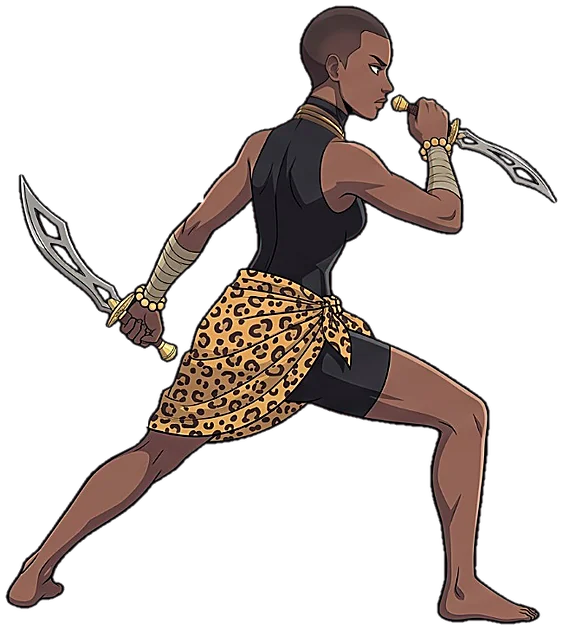
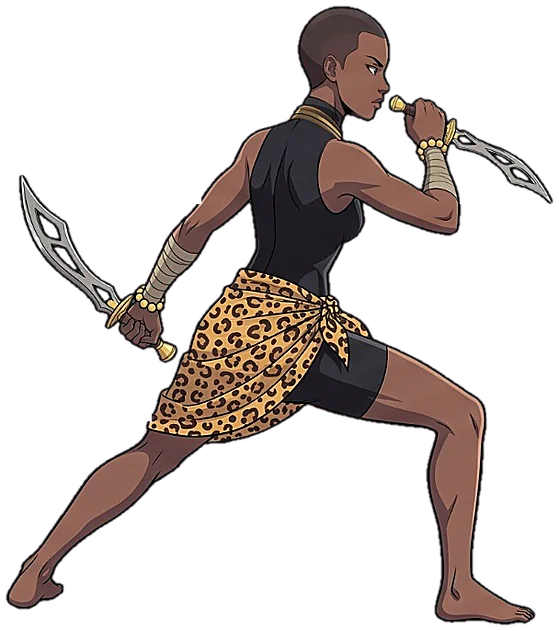
Dufie: ultimate sheets regenerated in strict profile at consistent scale; versioned asset URLs so phones stop mixing old cached art with new
Claude-Session: https://claude.ai/code/session_01KCvu1msLSb5oPSxPwoexAA

diff --git a/squads/game.js b/squads/game.js
@@ -1,9 +1,9 @@
 // Gyeaman Squads: Akan squad battler, chapter 1.
 // Battles are turn based on a speed turn order (Dislyte style): every hero picks Basic, Skill (cooldown) or Ultimate (energy)
 // and a target; enemies show their next move. Big moves get impact frames, small ones stay quiet.
-import { KF } from './kf.js';
-import { HEROES, MONS, STAGES, REGIONS, DIFF, RARITY, STARTERS, SKILL_MAX, skillCost, xpNeed, STAR_SHARDS, LOCKED_CHAPTERS, PULL_COST, PULL10_COST, PITY, PULL_RATES, CLASSES, GROWTH, SPELLS } from './data.js';
-import { drawAdinkra, adinkraPath, adinkraSvg, ADINKRA } from './adinkra.js';
+import { KF } from './kf.js?v=20261021b';
+import { HEROES, MONS, STAGES, REGIONS, DIFF, RARITY, STARTERS, SKILL_MAX, skillCost, xpNeed, STAR_SHARDS, LOCKED_CHAPTERS, PULL_COST, PULL10_COST, PITY, PULL_RATES, CLASSES, GROWTH, SPELLS } from './data.js?v=20261021b';
+import { drawAdinkra, adinkraPath, adinkraSvg, ADINKRA } from './adinkra.js?v=20261021b';
 
 const ROOT = /\/squads\/?$|\/squads\/index\.html$/.test(location.pathname) ? '../assets/' : 'assets/';
 const A = ROOT + 'sq/';
@@ -62,6 +62,7 @@ const SFX = {
 
 // ---------------- images ----------------
 const IM = {};
+const AV = '?v=20261021b'; // bump when art files are replaced under the same name (defeats stale browser/CDN caches)
 function img(src) {
   if (!IM[src]) { const e = { el: new Image(), ok: false, sc: {}, sil: {} }; e.el.decoding = 'async'; e.el.onload = () => { e.ok = true; }; e.el.src = src; IM[src] = e; }
   return IM[src];
@@ -73,7 +74,7 @@ const CHOREO = {}; // per-hero hand-animated moves (keyframe timelines)
 const ANIM = {}; // Veo clip sheets (none active: keyframe poses replaced them)
 for (const id in ANIM) for (const c of Object.values(ANIM[id])) c.sheets.forEach((u) => img(u));
 // ---------- keyframe choreography (Firefly pose sheets + code movement, smears, speed lines, afterimages) ----------
-const kfImg = (id, p) => img(A + 'kf/' + KF[id].p[p][0]);
+const kfImg = (id, p) => img(A + 'kf/' + KF[id].p[p][0] + AV);
 for (const id in KF) for (const p in KF[id].p) kfImg(id, p);
 // draw keyframe p for hero id with its floor point at (0,0), body scaled so the idle pose is bodyH tall
 function drawKF(g, id, p, bodyH, alpha = 1) {
@@ -148,8 +149,8 @@ function drawClip(g, c, fi, bodyH) {
   g.drawImage(im.el, (j % c.cols) * c.fw, Math.floor(j / c.cols) * c.fh, c.fw, c.fh, -c.ax * k, -c.fy * k, c.fw * k, c.fh * k);
   return true;
 }
-const poseSrc = (id, k) => `${A}${id}_${k}.webp`;
-const faceSrc = (id) => (HEROES[id] ? `${A}face_${id}.webp` : poseSrc(id, 0));
+const poseSrc = (id, k) => `${A}${id}_${k}.webp${AV}`;
+const faceSrc = (id) => (HEROES[id] ? `${A}face_${id}.webp${AV}` : poseSrc(id, 0));
 function scaled(e, th) {
   if (!e.ok) return null; th = Math.max(16, Math.round(th / 8) * 8);
   if (th >= e.el.naturalHeight * 0.8) return e.el;
@@ -747,7 +748,7 @@ async function ultIntro(u, sym, color) {
 // fullscreen ultimate cutscene: dedicated art (or a Veo clip once generated), push-in, speed lines, X-slash, title
 const CUTS = {}; // optional per-hero splash art; keyframe heroes use their signature pose
 function cutscene(u, sym, color) {
-  const C = CUTS[u.id] || (KF[u.id] && KF[u.id].p.ultA_1 ? { img: A + 'kf/' + KF[u.id].p.ultA_1[0], pose: 1, short: 1 } : { img: poseSrc(u.id, 2), pose: 1 });
+  const C = CUTS[u.id] || (KF[u.id] && KF[u.id].p.ultA_1 ? { img: A + 'kf/' + KF[u.id].p.ultA_1[0] + AV, pose: 1, short: 1 } : { img: poseSrc(u.id, 2), pose: 1 });
   const media = C.video ? `<video poster="${C.img}" muted playsinline autoplay preload="auto"><source src="${C.video.replace('.mp4', '.webm')}" type="video/webm"><source src="${C.video}" type="video/mp4"></video>` : `<img src="${C.img}" alt="" class="${C.pose ? 'pose' : ''} ${C.pose && u.flip[2] ? 'flip' : ''}">`;
   const el = h(`<div class="ultcs" style="--rc:${color}"><div class="cs-bg"></div><div class="cs-art">${media}</div><div class="cs-lines"></div>
     <div class="cs-sym">${adinkraSvg(sym)}</div><i class="cs-x a"></i><i class="cs-x b"></i><div class="cs-flash"></div>
@@ -773,7 +774,7 @@ const ICONS = { dufie: ['basic', 'dufie1', 'dufie2', 'dufKick', 'dufStars', 'ult
 const KIND_GLYPH = { melee: 'warrior', ranged: 'hunter', buff: 'growth', shield: 'guardian', heal: 'sage' };
 function spellIcon(id, i, eq, sidIn) {
   const H = HEROES[id], key = sidIn || (i === 0 ? 'basic' : i === 3 ? 'ult' : (eq || SAVE.heroes[id]?.eq || H.pool)[i - 1]);
-  if ((ICONS[id] || []).includes(key)) return `<span class="sic"><img src="${A}icons/${id}_${key}.webp" alt=""></span>`;
+  if ((ICONS[id] || []).includes(key)) return `<span class="sic"><img src="${A}icons/${id}_${key}.webp${AV}" alt=""></span>`;
   const S = SPELLS[key], g = key === 'basic' ? H.cls : key === 'ult' ? 'stars' : S && S.legacy ? 'skills' : KIND_GLYPH[S && S.kind] || 'skills';
   return `<span class="sic glyph" style="--rc:${RARITY[H.rarity].color}">${icon(g)}</span>`;
 }

diff --git a/squads/kf.js b/squads/kf.js
@@ -1,4 +1,4 @@
 // generated by split4.py: keyframe poses cut from Firefly pose sheets. [file, w, h, anchor x, floor y] in px
 export const KF = {
-  dufie: { ref: 625, p: {"basic_0":["dufie_basic_0.webp",544,631,271,625],"basic_1":["dufie_basic_1.webp",594,572,296,553],"basic_2":["dufie_basic_2.webp",423,690,213,653],"basic_3":["dufie_basic_3.webp",490,391,245,363],"idle_0":["dufie_idle_0.webp",556,630,277,625],"idle_1":["dufie_idle_1.webp",461,660,230,649],"idle_2":["dufie_idle_2.webp",355,496,176,481],"idle_3":["dufie_idle_3.webp",447,488,223,467],"step_0":["dufie_step_0.webp",395,710,196,705],"step_1":["dufie_step_1.webp",545,501,272,615],"step_2":["dufie_step_2.webp",630,540,314,540],"step_3":["dufie_step_3.webp",424,693,213,703],"kick_0":["dufie_kick_0.webp",499,632,248,626],"kick_1":["dufie_kick_1.webp",579,426,290,602],"kick_2":["dufie_kick_2.webp",372,740,186,732],"kick_3":["dufie_kick_3.webp",438,413,218,377],"throw_0":["dufie_throw_0.webp",552,630,275,625],"throw_1":["dufie_throw_1.webp",341,648,170,643],"throw_2":["dufie_throw_2.webp",543,642,270,637],"throw_3":["dufie_throw_3.webp",508,584,253,568],"vanish_0":["dufie_vanish_0.webp",529,631,264,625],"vanish_1":["dufie_vanish_1.webp",467,707,233,677],"vanish_2":["dufie_vanish_2.webp",316,551,157,632],"vanish_3":["dufie_vanish_3.webp",503,618,249,610],"ultA_0":["dufie_ultA_0.webp",563,630,281,625],"ultA_1":["dufie_ultA_1.webp",369,696,184,733],"ultA_2":["dufie_ultA_2.webp",536,534,268,667],"ultA_3":["dufie_ultA_3.webp",490,614,245,609],"ultB_0":["dufie_ultB_0.webp",519,706,259,723],"ultB_1":["dufie_ultB_1.webp",624,540,310,535],"ultB_2":["dufie_ultB_2.webp",402,573,201,692],"ultB_3":["dufie_ultB_3.webp",565,630,281,625],"recover_0":["dufie_recover_0.webp",395,729,196,716],"recover_1":["dufie_recover_1.webp",463,680,231,716],"recover_2":["dufie_recover_2.webp",399,503,199,684],"recover_3":["dufie_recover_3.webp",552,631,275,625]} },
+  dufie: { ref: 625, p: {"basic_0":["dufie_basic_0.webp",544,631,271,625],"basic_1":["dufie_basic_1.webp",594,572,296,553],"basic_2":["dufie_basic_2.webp",423,690,213,653],"basic_3":["dufie_basic_3.webp",490,391,245,363],"idle_0":["dufie_idle_0.webp",556,630,277,625],"idle_1":["dufie_idle_1.webp",461,660,230,649],"idle_2":["dufie_idle_2.webp",355,496,176,481],"idle_3":["dufie_idle_3.webp",447,488,223,467],"step_0":["dufie_step_0.webp",395,710,196,705],"step_1":["dufie_step_1.webp",545,501,272,615],"step_2":["dufie_step_2.webp",630,540,314,540],"step_3":["dufie_step_3.webp",424,693,213,703],"kick_0":["dufie_kick_0.webp",499,632,248,626],"kick_1":["dufie_kick_1.webp",579,426,290,602],"kick_2":["dufie_kick_2.webp",372,740,186,732],"kick_3":["dufie_kick_3.webp",438,413,218,377],"throw_0":["dufie_throw_0.webp",552,630,275,625],"throw_1":["dufie_throw_1.webp",341,648,170,643],"throw_2":["dufie_throw_2.webp",543,642,270,637],"throw_3":["dufie_throw_3.webp",508,584,253,568],"vanish_0":["dufie_vanish_0.webp",529,631,264,625],"vanish_1":["dufie_vanish_1.webp",467,707,233,677],"vanish_2":["dufie_vanish_2.webp",316,551,157,632],"vanish_3":["dufie_vanish_3.webp",503,618,249,610],"recover_0":["dufie_recover_0.webp",395,729,196,716],"recover_1":["dufie_recover_1.webp",463,680,231,716],"recover_2":["dufie_recover_2.webp",399,503,199,684],"recover_3":["dufie_recover_3.webp",552,631,275,625],"ultA_0":["dufie_ultA_0.webp",559,631,279,626],"ultA_1":["dufie_ultA_1.webp",412,780,206,821],"ultA_2":["dufie_ultA_2.webp",614,484,307,692],"ultA_3":["dufie_ultA_3.webp",622,606,310,600],"ultB_0":["dufie_ultB_0.webp",579,675,290,668],"ultB_1":["dufie_ultB_1.webp",499,461,247,452],"ultB_2":["dufie_ultB_2.webp",544,549,271,674],"ultB_3":["dufie_ultB_3.webp",562,631,280,625]} },
 };

diff --git a/squads/index.html b/squads/index.html
@@ -14,10 +14,10 @@
 <link rel="preconnect" href="https://fonts.googleapis.com">
 <link rel="preconnect" href="https://fonts.gstatic.com" crossorigin>
 <link href="https://fonts.googleapis.com/css2?family=Anton&family=Bangers&family=Karla:wght@400;700;800&display=swap" rel="stylesheet">
-<link rel="stylesheet" href="style.css">
+<link rel="stylesheet" href="style.css?v=20261021b">
 </head>
 <body>
 <div id="app"></div>
-<script type="module" src="game.js"></script>
+<script type="module" src="game.js?v=20261021b"></script>
 </body>
 </html>
